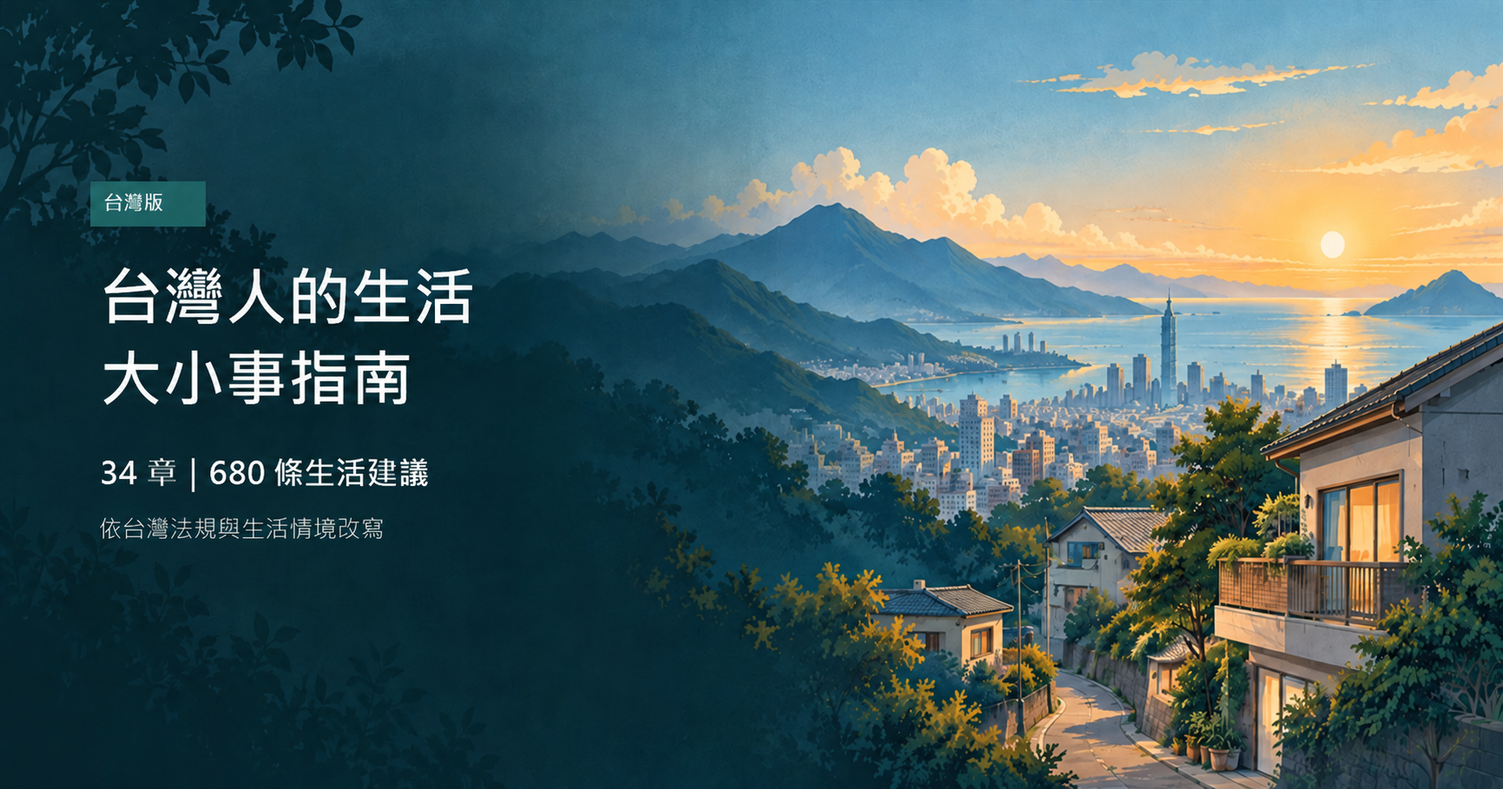
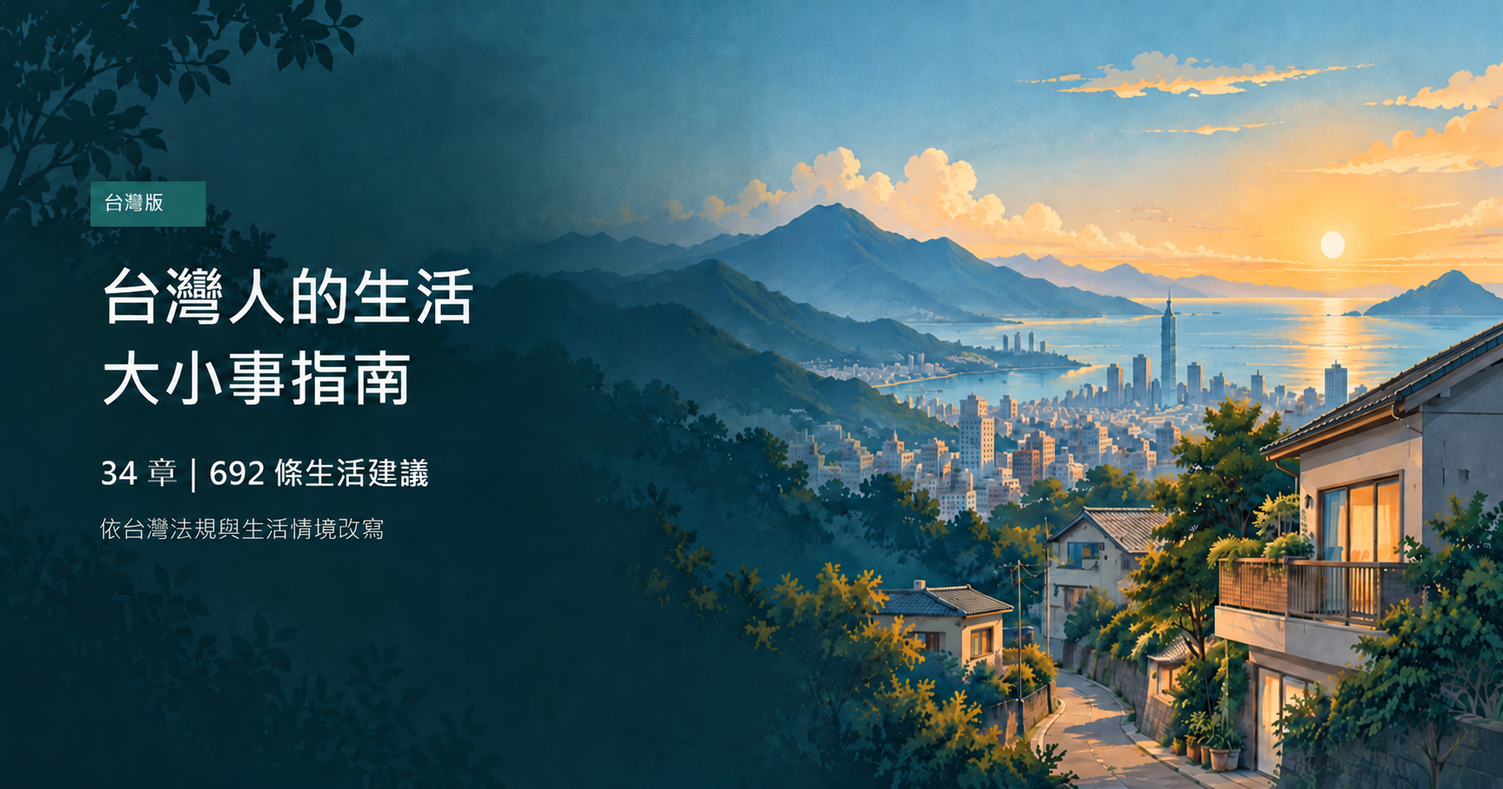
Add Taiwan housing and festival guides

diff --git a/index.html b/index.html
@@ -8,7 +8,7 @@
   <meta property="og:type" content="website">
   <meta property="og:locale" content="zh_TW">
   <meta property="og:title" content="台灣人的生活大小事指南">
-  <meta property="og:description" content="原作 34 章、676 條逐條改寫，另有台灣導覽與新增建議，全頁共 680 條閱讀內容。">
+  <meta property="og:description" content="原作 34 章、676 條逐條改寫，另有台灣日常導覽與住房補充，全頁共 692 條閱讀內容。">
   <meta property="og:image" content="https://raw.githubusercontent.com/calvinhuangcm/HowToLiveBetter/main/og-taiwan.png">
   <meta name="twitter:card" content="summary_large_image">
   <title>台灣人的生活大小事指南</title>
@@ -26,14 +26,15 @@
       <div>
         <div class="eyebrow">台灣版生活指南</div>
         <h1>台灣人的生活大小事指南</h1>
-        <p>沿用原作 34 章的主題架構，逐條改寫 676 條；另有 2 條台灣日常導覽和 2 條台灣新增建議，全頁共 680 條閱讀內容。</p>
+        <p>沿用原作 34 章的主題架構，逐條改寫 676 條；另有 7 條台灣日常導覽和 9 條台灣新增建議，全頁共 692 條閱讀內容。</p>
         <nav class="links" aria-label="相關連結">
           <a href="README.md">專案說明與完整章節</a>
+          <a href="https://github.com/calvinhuangcm/HowToLiveBetter/blob/main/docs/%E5%8F%B0%E7%81%A3%E7%AF%80%E6%97%A5%E7%A5%AD%E7%A5%80%E6%97%A5%E6%9B%86.md" target="_blank" rel="noopener noreferrer">節日祭祀日曆與紙錢小指南</a>
           <a href="docs/來源索引.md">台灣官方來源索引</a>
           <a href="simplified-chinese/README.md">原作者簡體中文版</a>
         </nav>
       </div>
-      <img src="og-taiwan.png" alt="台灣版：台灣人的生活大小事指南，34 章、680 條閱讀建議">
+      <img src="og-taiwan.png" alt="台灣版：台灣人的生活大小事指南，34 章、692 條閱讀建議">
     </header>
     <div class="layout">
       <aside class="panel sidebar">
@@ -118,4 +119,3 @@
   </script>
 </body>
 </html>
-

diff --git a/book/15-租屋與居住安全.md b/book/15-租屋與居住安全.md
@@ -1,6 +1,6 @@
 # 15. 租屋、買屋與居住安全
 
-本章依原作 9 條順序改寫台灣租屋、買屋及農村居住情境。租約、付款與點交紀錄都要留下；遇到押金或修繕爭議，可以先向所在地政府詢問住宅租賃調處或消費申訴。法規及契約資訊查核至 2026-10-10。
+本章依原作 9 條順序改寫台灣租屋、買屋及農村居住情境，並補上從找屋、簽約到交屋的台灣實用流程。租約、付款與點交紀錄都要留下；遇到押金或修繕爭議，可以先向所在地政府詢問住宅租賃調處或消費申訴。法規及契約資訊查核至 2026-10-18。
 
 ### 1. 簽住宅租約前確認押金不超過兩個月租金，並拍下點交屋況
 
@@ -91,3 +91,66 @@
 - 證據等級：A
 - 來源：《非都市土地使用管制規則》第 4 至 6 條：土地依分區及使用地編定管制；實際使用應符合容許項目。<https://law.moj.gov.tw/LawClass/LawAll.aspx?pcode=D0060013>
 - 備註：台灣沒有原作所述一概禁止一般人購買農村宅基地或農地住宅的同一套規定；能否建築、居住或變更用途須依土地類別、農地規範、建築法令及個案條件確認。
+
+### 10. 租屋前先算每月總支出，也查當年度租金補貼資格
+<!-- 成本標籤: 錢=少 時間=少 毅力=些 收益=大 口徑=自由 -->
+- 成本：整理租金、押金、管理費、水電瓦斯、網路、停車、通勤和搬家支出；補貼申請則要準備租約及身分資料。
+- 建議：用每月可負擔金額倒推租金上限，並保留突發修繕或收入中斷的預備金。簽約前查內政部當年度租金補貼公告及所在地社會住宅資訊，確認家庭所得、租屋處條件、申請期間和應備文件；不要先假設一定符合或一定拿得到補貼。
+- 收益：把搬入後持續支出的成本算進去，降低因只看月租而超出生活預算的風險。
+- 證據等級：A
+- 來源：內政部不動產資訊平台 115 年度租金補貼專區；各年度申請期間、資格與文件依公告更新。<https://pip.moi.gov.tw/V3/B/SCRB0102.aspx?name=%E7%94%B3%E8%AB%8B%E6%A2%9D%E4%BB%B6>
+- 備註：補貼政策會調整，這裡不列固定補貼金額。租金補貼與社會住宅是不同制度，申請方式也不同。
+
+### 11. 看屋時把屋況、生活動線和實際租金一起核對
+<!-- 成本標籤: 錢=0 時間=少 毅力=些 收益=大 口徑=自由 -->
+- 成本：安排白天與可能時段看屋，必要時再訪一次；把設備、噪音、通勤和管理費疑問寫下來。
+- 建議：檢查漏水痕跡、壁癌、異味、窗戶通風、熱水器與插座；確認房門、逃生動線、公共設施和垃圾收運方式。把租金、管理費、車位、水電計價、家具設備及修繕責任逐項問清楚，並用內政部租賃實價查詢參考同區案例。實價資料是比較參考，不代表房屋品質或保證成交價。
+- 收益：在簽約前發現不適合居住或費用條件不清的地方，減少入住後才爭執或搬遷的成本。
+- 證據等級：B
+- 來源：內政部不動產交易實價查詢服務網可查租賃案例；本章第 8 條另列居住安全檢查重點。<https://olvr.land.moi.gov.tw/jsp/guide.jsp>
+- 備註：看屋檢查不能取代建築、消防或設備專業鑑定；對方不讓檢查或不願書面說明費用時，先不要匆忙付訂。
+
+### 12. 簽租約和入住點交分成兩步，費用與屋況都留書面證據
+<!-- 成本標籤: 錢=少 時間=中 毅力=些 收益=大 口徑=自由 -->
+- 成本：簽約前逐項核對契約；搬入時拍照、錄影並記下設備和水電表讀數。
+- 建議：使用內政部最新住宅租賃契約範本，寫明租期、租金與支付日、押金、管理費、水電計價、修繕責任、可否轉租、續租及提前終止方式。簽約時確認出租人或代理人身分與收款帳戶；點交另列家具設備、既有損傷、鑰匙和表數，雙方各留一份紀錄。相關授權與押金規則可參考本章第 1、3、5 條。
+- 收益：把「談妥了」變成可回查的文件，日後比較容易釐清修繕、費用和押金責任。
+- 證據等級：A
+- 來源：內政部住宅租賃契約書範本（113 年 7 月 8 日修正）；《租賃住宅市場發展及管理條例》第 7 至 9 條。<https://pip.moi.gov.tw/Publicize/Info/G1020>；<https://law.moj.gov.tw/LawClass/LawAll.aspx?pcode=D0060125>
+- 備註：範本要依房屋類型和實際約定填寫；遇到不理解或被要求空白簽名的條款，先帶回確認再簽。
+
+### 13. 續租或退租先看契約通知期限，點交時一起核對押金和帳單
+<!-- 成本標籤: 錢=少 時間=少 毅力=些 收益=中 口徑=自由 -->
+- 成本：在行事曆設定租約到期提醒；退租時預留清潔、搬家及共同點交時間。
+- 建議：依契約和法律規定以可保存的方式提出續租或終止通知，記下送達日期及對方回覆。退租時約時間共同檢查屋況和設備，拍攝照片、記錄水電瓦斯讀數、交回鑰匙，確認未結帳單及雙方同意的押金扣抵項目。押金應在租約消滅、返還房屋並清償契約債務後返還或扣抵；有爭議可申請所在地縣市政府調處。
+- 收益：避免錯過通知時間、被單方面描述屋況，或因帳單和押金結算不清而延誤搬遷。
+- 證據等級：A
+- 來源：《租賃住宅市場發展及管理條例》第 7、11、12、16 條；內政部住宅租賃契約書範本。<https://law.moj.gov.tw/LawClass/LawAll.aspx?pcode=D0060125>；<https://pip.moi.gov.tw/Publicize/Info/G1020>
+- 備註：不同終止事由的通知期限和要件不同，不要把某一種提前終止期限套用到所有退租情況。
+
+### 14. 買房前先算頭期款以外的現金需求與長期持有成本
+<!-- 成本標籤: 錢=中 時間=中 毅力=些 收益=大 口徑=自由 -->
+- 成本：向銀行詢問初步貸款條件，並估算自備款、每月本息、稅費、仲介或專業服務費、裝修、管理費、保險及修繕預備金。
+- 建議：依穩定收入和其他負債設定總價上限，不以銀行可能核貸的最高金額當作個人可負擔上限。分別估算頭期款、簽約到交屋的付款時點和入住後的固定支出，並預留緊急備用金；稅費和交易費用依法律、服務內容及契約分配核對，不要直接把全部費用都算到買方或賣方。
+- 收益：把一次性交易成本和長期持有成本都納入預算，降低交屋前資金不足或每月現金流過緊的機率。
+- 證據等級：B
+- 來源：內政部成屋與預售屋買賣契約範本、財政部房地交易申辦流程與稅務資訊。<https://pip.moi.gov.tw/Publicize/Info/G1020>；<https://www.etax.nat.gov.tw/etwmain/tax-info/house-land-transfer-taxtation-calculation-area/sale/file-process/version2/BBwRM8W>
+- 備註：銀行初估不等於正式核貸，利率、成數、寬限期和估價結果均依申請人、房屋與金融機構審核而異；不要把投資增值當成還款來源。
+
+### 15. 買屋前查實價、土地建物登記和房屋現況，不只聽銷售說法
+<!-- 成本標籤: 錢=少 時間=中 毅力=些 收益=大 口徑=自由 -->
+- 成本：查詢實價登錄並申請或請專業人士核對最新土地、建物登記資料；必要時安排驗屋或專業檢查。
+- 建議：用內政部實價登錄比較相近地段、屋齡、型態、樓層和交易期間的案例，留意車位、特殊交易和價格計算差異。再核對所有權人、抵押權、查封、租約或占用情況、建物用途、增建、公共設施、管理費欠款及已知修繕；都市計畫、非都市土地和農地用途則向所在地主管機關查詢。房屋若由代理人或仲介銷售，確認身分、委託和報酬約定。
+- 收益：在支付大額款項前，先看清產權、使用限制、屋況和總價比較的依據。
+- 證據等級：B
+- 來源：內政部不動產交易實價查詢服務網、全國地政電子謄本系統及民眾看屋注意事項；本章第 9 條所列土地使用分區及管制規則。<https://olvr.land.moi.gov.tw/jsp/guide.jsp>；<https://epaper.land.moi.gov.tw/Home/SNWorkItem>；<https://pip.moi.gov.tw/Upload/File/Contract/14-%28097-06-27%29%E6%B0%91%E7%9C%BE%E7%9C%8B%E5%B1%8B%E6%B3%A8%E6%84%8F%E4%BA%8B%E9%A0%85%E5%8F%83%E8%80%83%E8%A1%A8.pdf>；<https://law.moj.gov.tw/LawClass/LawAll.aspx?pcode=D0060013>
+- 備註：公開實價資料有申報時間差，不能代替產權審查、房屋鑑定或法律意見；重要疑點應請地政士、建築師或律師確認。
+
+### 16. 依成屋或預售屋流程簽約、付款、移轉和驗收，逐筆留紀錄
+<!-- 成本標籤: 錢=中 時間=中 毅力=些 收益=大 口徑=自由 -->
+- 成本：簽約前逐條看契約、付款節點和交屋條件；依需要請地政士、建築師或律師協助。
+- 建議：依交易型態使用內政部成屋或預售屋契約範本，確認標的、總價、付款條件、貸款不足時如何處理、履約保證或價金信託的受託人與保障範圍、瑕疵修繕、違約及交屋日。每筆款項只匯入契約指定並已核實的帳戶，留存契約、收據和轉帳證明；移轉登記後安排驗收，逐項核對設備、缺失、鑰匙、停車位、水電表、管理費和文件。買賣雙方再依交易類型確認稅務申報與繳納期限。
+- 收益：讓付款和產權移轉都有可追蹤的條件，交屋時能集中確認未完成事項。
+- 證據等級：A
+- 來源：內政部成屋及預售屋買賣契約範本與定型化契約規定；財政部房地交易申辦流程。<https://pip.moi.gov.tw/Publicize/Info/G1020>；<https://www.etax.nat.gov.tw/etwmain/tax-info/house-land-transfer-taxtation-calculation-area/sale/file-process/version2/BBwRM8W>
+- 備註：預售屋與成屋適用的契約規範和履約保障不同，不能把預售屋保障方式直接當作所有成屋交易的法定安排；稅務期限依交易事實分別確認。

diff --git a/docs/台灣節日祭祀日曆.md b/docs/台灣節日祭祀日曆.md
@@ -1,0 +1,66 @@
+# 台灣節日祭祀日曆與紙錢小指南
+
+本頁用民俗資料整理一年中常見的祭祀節點、目的與供品例子，方便第一次接觸的人先理解再詢問。**不是每個台灣家庭都拜，也沒有全台統一、人人必備的供品清單。**祭拜對象、日期、桌位、供品、紙錢及是否焚燒，會因宗教、家庭傳承、北中南地方習慣、廟宇和社區規定而不同；本頁描述習俗，不判定信仰真假，也不保證祭拜會帶來特定結果。
+
+多數節日以農曆日期為主；清明、冬至依節氣，換算成國曆的日期每年不同。實際安排請看當年農民曆、家族通知或廟方公告。若家中平常沒有祭祀習慣，可以不做；想參加儀式時，先問家人或主辦廟宇「拜誰、何時、要準備什麼、紙錢怎麼處理」。
+
+## 一年中常見的節日與祭祀節點
+
+| 時間 | 常見目的或習俗 | 入門準備例子 | 提醒 |
+| --- | --- | --- | --- |
+| 農曆十二月二十四 | 送神；民俗上認為神明在年末返回天界述職，也有人謝神、清理神桌 | 茶水、簡單水果或甜食；是否準備紙錢依家中習慣 | 供品與祭拜時間各家不同；不必照網路清單買滿整桌 |
+| 除夕至正月初一 | 圍爐、迎新年；有些家庭祭拜家神、祖先或地基主 | 家常年菜、水果、年糕或蘿蔔糕；依對象決定 | 先問家中長輩流程。除夕、初一、初二回娘家等作法都可能因家庭而異 |
+| 農曆正月初九 | 部分家庭或廟宇祝壽天公（玉皇上帝） | 依廟方指示準備茶、水果或素供品 | 儀式可能較隆重，但不是每戶都在家祭拜；勿把某一套供桌當作普遍規定 |
+| 農曆正月十五（上元） | 三元節之一；民間信仰常連結天官賜福，當天也是元宵節 | 水果、茶或簡單供品 | 廟宇儀式與家庭安排不同，有些人只過元宵、不另祭拜 |
+| 農曆二月初二（頭牙） | 部分家庭、商家祭土地公，俗稱頭牙；不少商家也在每月初二、十六做牙 | 水果、茶、糕餅等簡單供品 | 供品種類依店家和地區不同；頭牙與每月做牙不是所有人的義務 |
+| 清明節（節氣） | 掃墓、追思祖先；有些家庭也在家祭祖 | 鮮花、水果、茶水或家常供品 | 公墓、納骨塔與各地有不同祭掃、用火和清潔規定；先查管理單位公告 |
+| 農曆五月初五（端午） | 過節、家人團聚；有些家庭會祭祖 | 粽子、水果或家常飯菜 | 不必因為端午就另買牲禮或紙錢，依家中傳承即可 |
+| 農曆七月（普度日期依廟宇／社區） | 中元普度、普施等儀式；由廟宇、社區或公司安排日期 | 依主辦單位通知準備可分享的包裝食品、水果、飲料等 | 農曆七月的普度不一定在七月十五；確認桌位、供品收取時間、是否需報名及紙錢集中方式 |
+| 農曆七月十五（中元） | 三元節之一；民間常以祭拜地官、普度為主題 | 家庭或社區常見水果、熟食、糕點、飲料等 | 儀式規模差異很大。不要擅自在道路、巷弄或公寓公共區域擺桌、燃燒或留下食物 |
+| 農曆八月十五（中秋） | 團圓、賞月；部分家庭會祭月、土地公或家神 | 月餅、水果、茶水等 | 祭月與祭神的做法不一；注意烤肉煙霧、用火和垃圾清理 |
+| 農曆九月初九（重陽） | 登高敬老；部分家庭會祭祖或合祭祖先 | 水果、糕點或家常供品 | 是否有重陽祭祖、供品豐簡均依家族傳承，不是全台固定流程 |
+| 農曆十月十五（下元） | 三元節之一；部分廟宇祭祀水官或舉辦法會 | 若參加廟會，依廟方通知 | 一般家庭未必另行祭拜，不需要自行準備專門供品 |
+| 冬至（節氣） | 團聚、吃湯圓；有些家庭以湯圓祭祖或謝冬 | 湯圓、茶水或家常供品 | 冬至國曆日期每年依節氣略有不同；祭祀是部分家庭習俗 |
+| 農曆十二月十六（尾牙） | 商家或部分家庭歲末祭土地公、慰勞員工 | 水果、糕餅或公司聚餐 | 現代公司聚餐常稱尾牙；是否祭拜與宴客方式依公司和家庭安排 |
+
+以上是方便辨認時序的例子，不是完整宗教年曆。像清明、端午、過年和重陽的祭祖方式，國史館臺灣文獻館資料也記錄了不同供品和地方差異；三元節、土地公頭牙尾牙、送神和謝冬則各有民俗記載。若參加法會或社區普度，主辦者的公告優先於通用整理。
+
+## 金紙、銀紙怎麼入門
+
+紙錢的稱呼與用途來自民俗傳承，不能只看名稱就推定所有地方都一樣。常見概念可先這樣理解：
+
+| 常見名稱 | 民俗上的常見對象／用途 | 初學者怎麼做 |
+| --- | --- | --- |
+| 金紙（例如壽金、刈金等） | 常見於祭拜神明；種類可能按神祇、儀式或地方習慣區分 | 先問廟方或家人這次是否需要、要哪一種；不確定就先不買 |
+| 銀紙（例如大銀等） | 常見於祭祖或普度等儀式；不同地區使用方法有差異 | 確認祭祀對象和收運方式，不要把某地做法當全台規則 |
+| 經衣、往生衣、高錢等 | 某些祖先、普度、法會或特定儀式才會使用 | 只按主辦者指示準備，勿把它當成每個節日的基本套組 |
+
+想簡化時，可以只準備家人會食用的水果、茶水或家常食物；也可以不燒紙錢，改用廟方接受的捐米、公益捐款或其他替代方式。**祭拜對象不同，不代表必須購買一整套金銀紙；燒紙錢也不是所有祭祀的必要條件。**
+
+## 安全與環境友善做法
+
+環境部推廣「新紙錢三燒」：
+
+1. **替代燒：**以功代金、捐米或其他主辦者接受的方式表達心意。
+2. **適量燒：**減少紙錢和香的數量，不為求完整而大量焚燒。
+3. **集中燒：**使用廟方、清潔隊或地方政府提供的集中收運及合適設施。
+
+在公寓、租屋處、陽台、樓梯間、道路或逃生動線點火前，先確認租約、社區規約、場所禁火規定和所在地公告；不要在室內或未設置安全設施的地方燒紙。保持消防通道暢通，紙灰和供品依場所指示處理，避免遺留垃圾、燙傷或引燃周遭物品。
+
+## 第一次參加時的四步驟
+
+1. **先問對象與主辦者：**是拜神明、祖先、地基主或參加普度？問家人、廟方、管委會或活動主辦者。
+2. **確認時間與規則：**核對農曆日期、集合時間、桌位、供品是否由主辦者統一準備，以及可否焚燒。
+3. **準備簡單且吃得完的供品：**考慮天氣、保存、過敏、慢性病飲食和寵物安全；不清楚紙錢種類時先不買。
+4. **依規定收拾現場：**妥善收回供品與器具，紙錢交由指定地點處理，不阻塞通道或影響鄰居。
+
+搬家或租屋入住時，有些家庭會拜地基主，也有家庭不做。這不是一般住宅租約的法定義務；先問屋主、管理室與家人，並遵守租約、社區規約和消防規定。
+
+## 官方資料與查核日期
+
+查核日期：2026-10-18。以下資料用來說明民俗記載與環保方式，不表示每個家庭都應照做。
+
+- 國史館臺灣文獻館《臺灣民俗文物辭典》：祖先在過年、清明、端午、重陽等節日祭祀的記載與南北供品差異。<https://dict.th.gov.tw/detailPage.aspx?ID=1449>
+- 同辭典：天公生日、三元節（上元、中元、下元）、送神、謝冬與土地公頭牙、尾牙。<https://dict.th.gov.tw/detailPage.aspx?ID=2403>；<https://dict.th.gov.tw/detailPage.aspx?Ca=192&ID=2444>；<https://dict.th.gov.tw/detailpage.aspx?ca=198&id=2457>；<https://dict.th.gov.tw/detailPage.aspx?Ca=196&ID=2451>；<https://dict.th.gov.tw/detailPage.aspx?Ca=287&ID=1249>
+- 同辭典：清明祭祖、地基主祭品、中元普度物品，以及金銀紙常見用途。<https://dict.th.gov.tw/detailPage.aspx?Ca=186&ID=2427>；<https://dict.th.gov.tw/detailPage.aspx?ID=1444>；<https://dict.th.gov.tw/detailPage.aspx?Ca=297&ID=1435>；<https://dict.th.gov.tw/detailPage.aspx?Ca=93&ID=727>；<https://dict.th.gov.tw/detailPage.aspx?ID=1032>
+- 環境部「中元普度新紙錢三燒」：替代燒、適量燒、集中燒。<https://enews.moenv.gov.tw/moenv-news/zh-tw/News/13989>

diff --git a/book/00-台灣日常生活.md b/book/00-台灣日常生活.md
@@ -20,3 +20,48 @@
 - 來源：內政部消防署，緊急避難包準備清單。<https://www.nfa.gov.tw/cht/index.php?article_id=18936&code=list&flag=detail&ids=1468>；全民防災 e 點通。<https://bear.emic.gov.tw>
 - 備註：避難包依家庭成員調整。消防署明確提醒，沒有政府認證的單一品牌或固定規格。
 
+### 3. 依家人與地方習慣安排年節祭祀，不把民俗當成人人必做的清單
+<!-- 成本標籤: 錢=可選 時間=少 毅力=少 收益=小 口徑=自由 -->
+- 成本：先問家人或常去的廟宇有哪些固定習慣，再決定是否準備；不需要為了完整日曆一次買齊供品。
+- 建議：查看[台灣節日祭祀日曆與紙錢小指南](https://github.com/calvinhuangcm/HowToLiveBetter/blob/main/docs/%E5%8F%B0%E7%81%A3%E7%AF%80%E6%97%A5%E7%A5%AD%E7%A5%80%E6%97%A5%E6%9B%86.md)，先認識農曆年節、清明、端午、中元、冬至及土地公頭牙、尾牙等常見節點。日期多依農曆或節氣，每年國曆日期不同；祭拜對象、目的與做法依家庭、地區和廟宇而異。
+- 收益：知道常見節日大致在做什麼、要先問誰，可減少臨時採買和把地方習慣誤當全台規定。
+- 證據等級：B
+- 來源：國史館臺灣文獻館《臺灣民俗文物辭典》，祖先祭祀、送神、三元節及土地公條目。<https://dict.th.gov.tw/detailPage.aspx?ID=1449>；<https://dict.th.gov.tw/detailpage.aspx?ca=198&id=2457>；<https://dict.th.gov.tw/detailPage.aspx?Ca=192&ID=2444>；<https://dict.th.gov.tw/detailPage.aspx?Ca=287&ID=1249>
+- 備註：這是民俗介紹，不是宗教指示，也不保證任何結果。家中沒有祭拜習慣，可以不做；有疑問時以自家長輩、廟方與所在地規定為準。
+
+### 4. 第一次準備供品時先確認祭拜對象，再用簡單、吃得完的品項
+<!-- 成本標籤: 錢=可控 時間=少 毅力=少 收益=小 口徑=自由 -->
+- 成本：以家中能分享、能保存或能當餐食用的食物為主，避免因為「一定要準備很多」而增加花費與浪費。
+- 建議：先確認是祭神明、祖先、地基主或參加廟宇普度，再問家人或主辦廟宇需要的供品、桌位、時間和收取方式。水果、茶水、家常飯菜或當令糕點都是可能的簡單選擇；牲禮、碗筷數、酒、香與紙錢都不是每種祭拜都通用。祭後依食物保存方式儘早分食或冷藏。
+- 收益：把準備重點放在尊重對象和家庭習慣，不必被網路上的固定套組或大量採買清單牽著走。
+- 證據等級：B
+- 來源：國史館臺灣文獻館《臺灣民俗文物辭典》，祖先祭祀與地基主祭品條目，記載供品及紙錢有家庭、地區差異。<https://dict.th.gov.tw/detailPage.aspx?ID=1449>；<https://dict.th.gov.tw/detailPage.aspx?ID=1444>
+- 備註：食品過敏、慢性病飲食、寵物誤食與夏季保存也要一起考慮；宗教或家族儀式要求不同時，先向該儀式的負責人確認。
+
+### 5. 金紙、銀紙先分清常見用途，種類和名稱問廟方或家人
+<!-- 成本標籤: 錢=可選 時間=少 毅力=少 收益=小 口徑=自由 -->
+- 成本：不熟紙錢種類時先詢問，不要因為名稱相似而整包購買。
+- 建議：常見說法中，金紙多用於祭拜神佛，銀紙常見於祭祖或普度等祭祀；大銀、經衣、壽金、刈金等名稱與使用方式會隨祭拜對象、地區和廟宇改變。以該次祭拜的指示為準，也可選擇不燒紙錢。
+- 收益：能先判斷「這包紙錢是給誰、是否真的需要」，降低買錯、浪費或在不適合處焚燒的情況。
+- 證據等級：B
+- 來源：國史館臺灣文獻館《臺灣民俗文物辭典》，金銀紙印版及祖先祭祀條目；條目記錄北、中、南部做法不同。<https://dict.th.gov.tw/detailPage.aspx?Ca=93&ID=727>；<https://dict.th.gov.tw/detailPage.aspx?ID=1449>
+- 備註：辭典描述的是民俗用法，不是全台統一分類表。紙錢也不是法律或祭祀成立的必要條件。
+
+### 6. 要燒紙錢時先看場所規定，改用減量、集中或替代方式
+<!-- 成本標籤: 錢=可選 時間=少 毅力=少 收益=小 口徑=自由 -->
+- 成本：依廟宇、社區或清潔隊公告選擇集中收運，或改以捐米、公益捐款等方式表達心意。
+- 建議：不在室內、陽台、樓梯間、道路或禁止用火處自行焚燒；先查廟方和所在地環保、消防規定。環境部推廣「替代燒、適量燒、集中燒」：可不燒或以功代金、減少紙錢與香的數量、使用集中收運服務。
+- 收益：減少火災、煙霧和鄰里衝突，也能在尊重家庭信仰的同時降低空氣污染。
+- 證據等級：A
+- 來源：環境部「新紙錢三燒」宣導，提倡替代燒、適量燒、集中燒。<https://enews.moenv.gov.tw/moenv-news/zh-tw/News/13989>
+- 備註：集中收運及禁燒範圍依地方公告與場所規則而異，使用前查所在地最新資訊。
+
+### 7. 租屋或搬新家前先問屋主、管理室與家人有沒有祭拜安排
+<!-- 成本標籤: 錢=可選 時間=少 毅力=少 收益=小 口徑=自由 -->
+- 成本：先確認租約、公共空間和火源規範；若家中不祭拜，不必為搬家儀式額外採買。
+- 建議：搬入新居有人會拜地基主或依家族習慣簡單祭拜，也有人不做。先詢問屋主、管理室及家人是否有既有安排；不得在逃生通道、室內不適當處或未經同意的公共空間點香、燒紙。需要準備時，向廟方或熟悉的家人確認簡化方式。
+- 收益：讓搬家安排尊重居住安全、租約和鄰里，不把個別家庭習慣當成租客義務。
+- 證據等級：B
+- 來源：國史館臺灣文獻館《臺灣民俗文物辭典》，地基主祭品及搬入新房祭拜方式的地區差異。<https://dict.th.gov.tw/detailPage.aspx?ID=1444>
+- 備註：祭祀不是一般住宅租賃的法定義務；租屋應遵守租約、社區規約及消防安全規定。
+

diff --git a/docs/來源索引.md b/docs/來源索引.md
@@ -10,6 +10,12 @@
 
 ## 法規與公共服務
 
+### 第 0 章：台灣日常生活與節日祭祀
+
+- 國史館臺灣文獻館《臺灣民俗文物辭典》：天公生、祖先祭祀、送神、三元節、謝冬、土地公頭牙與尾牙；資料可見節日、供品和祭祀方法因家庭及地區而異。<https://dict.th.gov.tw/detailPage.aspx?ID=2403>；<https://dict.th.gov.tw/detailPage.aspx?ID=1449>；<https://dict.th.gov.tw/detailpage.aspx?ca=198&id=2457>；<https://dict.th.gov.tw/detailPage.aspx?Ca=192&ID=2444>；<https://dict.th.gov.tw/detailPage.aspx?Ca=196&ID=2451>；<https://dict.th.gov.tw/detailPage.aspx?Ca=287&ID=1249>
+- 國史館臺灣文獻館《臺灣民俗文物辭典》：清明祭祖、地基主祭品、中元普度物品，以及金銀紙用途與區域差異。<https://dict.th.gov.tw/detailPage.aspx?Ca=186&ID=2427>；<https://dict.th.gov.tw/detailPage.aspx?ID=1444>；<https://dict.th.gov.tw/detailPage.aspx?Ca=297&ID=1435>；<https://dict.th.gov.tw/detailPage.aspx?Ca=93&ID=727>；<https://dict.th.gov.tw/detailPage.aspx?ID=1032>
+- 環境部中元普度「新紙錢三燒」宣導：替代燒、適量燒及集中燒等環境友善祭祀方式。<https://enews.moenv.gov.tw/moenv-news/zh-tw/News/13989>
+
 ### 第 1 章：預防疾病與早死
 
 - 國健署成人預防保健服務：成人健檢年齡、週期、檢查項目及 B、C 肝篩檢。<https://www.hpa.gov.tw/Pages/List.aspx?nodeid=189>
@@ -196,6 +202,11 @@
 - 《民法》第 423 至 425 條：出租人維持租賃物狀態、居住安全瑕疵和所有權移轉時租賃契約效力；第 425 條對未公證且超過五年或未定期限租約設有例外。<https://law.moj.gov.tw/LawClass/LawAll.aspx?pcode=B0000001>
 - 內政部不動產資訊平台成屋、預售屋買賣契約範本及預售屋履約保證機制說明。成屋款項保管安排依契約約定，不與預售屋法定機制混為一談。<https://pip.moi.gov.tw/Publicize/Info/G1020>；<https://pip.moi.gov.tw/Upload/File/Contract/59-%28100-06-01%29%E9%A0%90%E5%94%AE%E5%B1%8B%E8%B2%B7%E8%B3%A3%E5%AE%9A%E5%9E%8B%E5%A5%91%E7%B4%84%E5%A2%9E%E5%88%97%E5%B1%A5%E7%B4%84%E4%BF%9D%E8%AD%89%E6%A9%9F%E5%88%B6%E8%A3%9C%E5%85%85%E8%AA%AA%E6%98%8E.pdf>
 - 宜蘭縣政府安全租賃場所檢查提醒、《建築技術規則建築設計施工編》；《非都市土地使用管制規則》第 4 至 6 條。<https://ilanland.e-land.gov.tw/News_Content.aspx?n=18064&s=359087>；<https://law.moj.gov.tw/LawClass/LawAll.aspx?pcode=D0070115>；<https://law.moj.gov.tw/LawClass/LawAll.aspx?pcode=D0060013>
+- 內政部不動產資訊平台：115 年度中央擴大租金補貼專區；資格、申請時間與文件以年度公告為準。<https://pip.moi.gov.tw/V3/B/SCRB0102.aspx?name=%E7%94%B3%E8%AB%8B%E6%A2%9D%E4%BB%B6>
+- 內政部不動產交易實價查詢服務網：買賣、租賃與預售屋成交案例查詢及操作指引；實價資料供比較參考，不代表房屋品質或保證成交價。<https://olvr.land.moi.gov.tw/jsp/guide.jsp>
+- 全國地政電子謄本系統提供土地、建物登記謄本查詢申領；內政部民眾看屋注意事項提醒買方實地勘查並核對登記資料。<https://epaper.land.moi.gov.tw/Home/SNWorkItem>；<https://pip.moi.gov.tw/Upload/File/Contract/14-%28097-06-27%29%E6%B0%91%E7%9C%BE%E7%9C%8B%E5%B1%8B%E6%B3%A8%E6%84%8F%E4%BA%8B%E9%A0%85%E5%8F%83%E8%80%83%E8%A1%A8.pdf>
+- 內政部不動產資訊平台住宅租賃契約書範本（113 年 7 月 8 日修正）、成屋及預售屋買賣契約書範本與定型化契約資訊。<https://pip.moi.gov.tw/Publicize/Info/G1020>
+- 財政部稅務入口網房地交易申辦流程與應備文件；申報稅目和期限依交易日期、取得及移轉情況而異。<https://www.etax.nat.gov.tw/etwmain/tax-info/house-land-transfer-taxtation-calculation-area/sale/file-process/version2/BBwRM8W>
 
 ### 第 16 章：慢性病照護與健保
 
@@ -392,7 +403,6 @@
 ## 查核日期
 
 原有制度資料查核於 2026-10-11；上述新增或修正內容查核於 2026-10-18。動態資格、金額和地方服務須在發布前再查一次。
-
 
 
 

diff --git a/docs/逐章改寫進度.md b/docs/逐章改寫進度.md
@@ -5,10 +5,10 @@
 - 以下載的原作 `upstream-reference/` 為底稿清單，保留 34 章順序與主要問題。
 - 每個原作條目都要標記為「台灣化改寫」、「合併改寫」或「不納入並說明理由」；不直接沿用中國大陸的法規、補助、服務電話或地區統計。
 - 需要現行法規、資格、金額、電話或地方作法的條目，先查台灣官方來源並在正文列出；跨地區的一般建議可保留核心意思，但要確認不會誤導台灣讀者。
-- 本表只計算原作 34 章的對照條目：原作 README 標示 676 條，本地對照標題也是 676 條。第 0 章有 2 條台灣日常導覽；第 19、23 章另各新增 1 條台灣建議，目前閱讀頁共 680 條。
+- 本表只計算原作 34 章的對照條目：原作 README 標示 676 條，本地對照標題也是 676 條。第 0 章目前有 7 條台灣日常導覽；第 15 章新增 7 條租屋、買屋流程建議，第 19、23 章另各新增 1 條台灣建議，目前閱讀頁共 692 條。
 - `book/` 34 章均已逐條對應原作；需要台灣法律、福利、資格或健康資訊的條目附有可追查來源，並在章末說明重要改寫差異。
 
-原作條目於 2026-10-11 完成 676／676 條對照，完成 34／34 章。2026-10-18 重新查核流感與新冠疫苗、婚假和遺產稅規定，並新增兩條台灣生活建議。
+原作條目於 2026-10-11 完成 676／676 條對照，完成 34／34 章。2026-10-18 重新查核流感與新冠疫苗、婚假和遺產稅規定，更新第 0 章民俗導覽、第 15 章租屋買屋流程與官方來源。
 
 ## 各章條目數與進度
 
@@ -28,7 +28,7 @@
 | 12 | 24 | [創業與開店](../book/12-創業與開店.md) | 已完成（2026-10-10） |
 | 13 | 44 | [急救與災害應變](../book/13-急救與災害應變.md) | 已完成（2026-10-10） |
 | 14 | 10 | [帳號與防詐](../book/14-帳號與防詐.md) | 已完成（2026-10-10） |
-| 15 | 9 | [租屋與居住安全](../book/15-租屋與居住安全.md) | 已完成（2026-10-10） |
+| 15 | 9 | [租屋與居住安全](../book/15-租屋與居住安全.md) | 原作對照完成（2026-10-10）；新增台灣租屋、買屋流程 7 條（2026-10-18） |
 | 16 | 9 | [慢性病照護](../book/16-慢性病照護.md) | 已完成（2026-10-10） |
 | 17 | 10 | [長輩與長照](../book/17-長輩與長照.md) | 已完成（2026-10-10） |
 | 18 | 6 | [育兒與家庭支持](../book/18-育兒與家庭支持.md) | 已完成（2026-10-10） |
@@ -52,7 +52,6 @@
 ## 完成標準
 
 逐條核對原章的條目標題及核心建議，將適用者改成台灣版並補上台灣來源；合併或刪除者在章節末的改寫說明中列出原條號、處理方式和原因。完成一章後，將本表該章狀態改為「已完成」，並記錄核對日期。
-
 
 
 

diff --git a/book/README.md b/book/README.md
@@ -18,7 +18,7 @@
 | 12 | 開店、接案與成立公司 | 已完成 24／24 條（2026-10-10） |
 | 13 | 急救、災害與緊急聯絡 | 已完成 44／44 條（2026-10-10） |
 | 14 | 帳號、手機與個資安全 | 已完成 10／10 條（2026-10-10） |
-| 15 | 租屋、買屋與居住安全 | 已完成 9／9 條（2026-10-10） |
+| 15 | 租屋、買屋與居住安全 | 原作 9／9 條完成；新增台灣租屋、買屋流程 7 條（2026-10-18） |
 | 16 | 慢性病照護與健保 | 已完成 9／9 條（2026-10-10） |
 | 17 | 長輩照顧、監護與財務安排 | 已完成 10／10 條（2026-10-10） |
 | 18 | 育兒成本與家庭支持 | 已完成 6／6 條（2026-10-10） |
@@ -46,11 +46,11 @@
 - **留住重要的政府與求助電話。** 119 處理火災、救護和急難救助；手機收訊不佳時可試 112。福利需求可問 1957，長照需求可打 1966。
 - **照顧安排要看家人和地方資源。** 長照服務先由 1966 或所在地照管中心評估，不假設每個家庭都由同一位家人照顧。
 
-更多在地生活提醒見[第 0 章：台灣日常生活](00-台灣日常生活.md)。
+更多在地生活提醒見[第 0 章：台灣日常生活](00-台灣日常生活.md)及[節日祭祀日曆與紙錢小指南](../docs/台灣節日祭祀日曆.md)。
 
 ## 章節稿件
 
-34 章文件已逐條對照原作，完成 676／676 條；另有 2 條台灣日常導覽和 2 條台灣新增建議，全頁共 680 條閱讀內容。章節稿保留原作條目對照標記；需要台灣法規、補助、資格、健康或服務資訊的條目均列出查核來源，改寫差異記於各章末。
+34 章文件已逐條對照原作，完成 676／676 條；另有 7 條台灣日常導覽和 9 條台灣新增建議，全頁共 692 條閱讀內容。第 15 章包含原作 9 條與 7 條台灣租屋、買屋流程補充。章節稿保留原作條目對照標記；需要台灣法規、補助、資格、健康或服務資訊的條目均列出查核來源，改寫差異記於各章末。
 
 - [第 1 章：預防疾病與早死](01-預防疾病與早死.md)
 - [第 2 章：慢性病與成癮](02-慢性病與成癮.md)
@@ -86,7 +86,6 @@
 - [第 32 章：出國留學](32-出國留學.md)
 - [第 33 章：身心障礙與支持服務](33-身心障礙與支持服務.md)
 - [第 34 章：居家用藥安全](34-居家用藥安全.md)
-
 
 
 

diff --git a/README.md b/README.md
@@ -1,12 +1,12 @@
 <div align="center">
 
-<img src="og-taiwan.png" alt="台灣人的生活大小事指南，34 章、680 條閱讀建議" width="820">
+<img src="og-taiwan.png" alt="台灣人的生活大小事指南，34 章、692 條閱讀建議" width="820">
 
 # 台灣人的生活大小事指南
 
-以台灣的法規、政府服務和日常情境，整理健康、金錢、法律、家庭、工作與生活安全。沿用原作 34 章並逐條改寫 676 條；另有 2 條台灣日常導覽和 2 條台灣新增建議，全頁共 680 條閱讀內容。
+以台灣的法規、政府服務和日常情境，整理健康、金錢、法律、家庭、工作與生活安全。沿用原作 34 章並逐條改寫 676 條；另有 7 條台灣日常導覽和 9 條台灣新增建議，全頁共 692 條閱讀內容。
 
-[章節地圖](./book/README.md) · [逐章改寫進度](./docs/逐章改寫進度.md) · [台灣化編輯原則](./docs/台灣化編輯原則.md) · [來源索引](./docs/來源索引.md)
+[章節地圖](./book/README.md) · [節日祭祀日曆與紙錢小指南](./docs/台灣節日祭祀日曆.md) · [逐章改寫進度](./docs/逐章改寫進度.md) · [台灣化編輯原則](./docs/台灣化編輯原則.md) · [來源索引](./docs/來源索引.md)
 
 </div>
 
@@ -66,4 +66,3 @@
 - [Creative Commons 姓名標示 4.0 國際](https://creativecommons.org/licenses/by/4.0/)
 
 原作正文同步版本：`bb25081`；台灣版依原作 34 章逐章改寫。法規與政府服務的查核日期見各章及[來源索引](./docs/來源索引.md)。
-

diff --git a/AGENTS.md b/AGENTS.md
@@ -18,5 +18,4 @@
 
 - `index.html` 會從根目錄 README 擷取 `book/*.md` 章節連結，並載入該章 Markdown。
 - 新增或更名章節時，確認 README 使用「第 N 章」連結格式，讓目錄能自動顯示。
-- Open Graph 分享圖片使用根目錄 `og-taiwan.jpg`。
-
+- Open Graph 分享圖片使用根目錄 `og-taiwan.png`。
